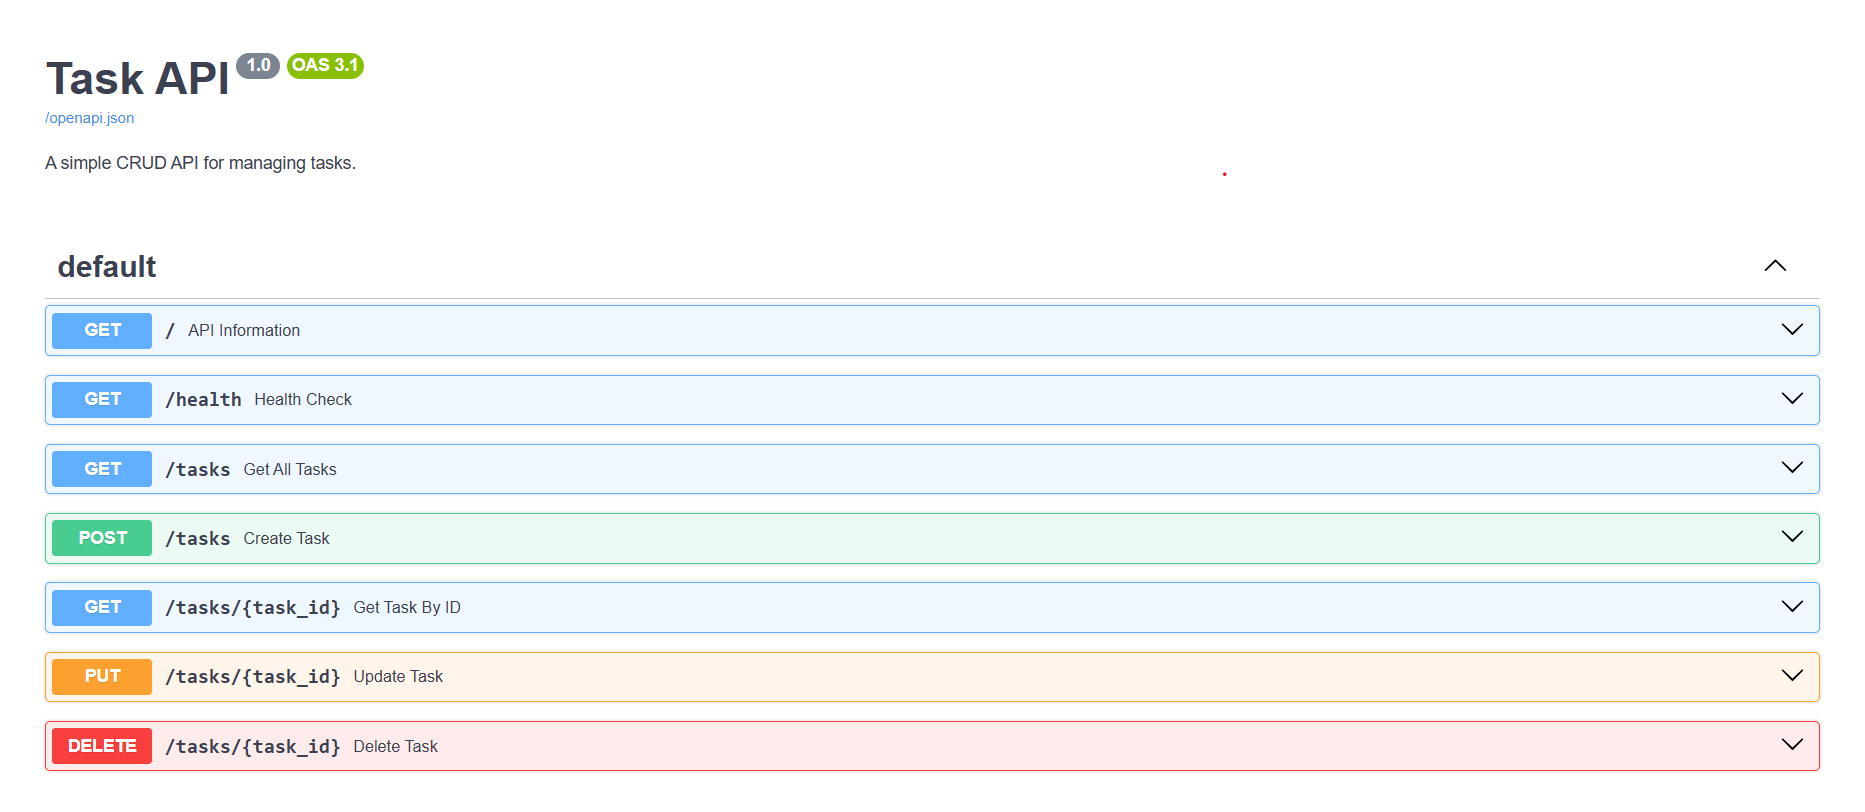
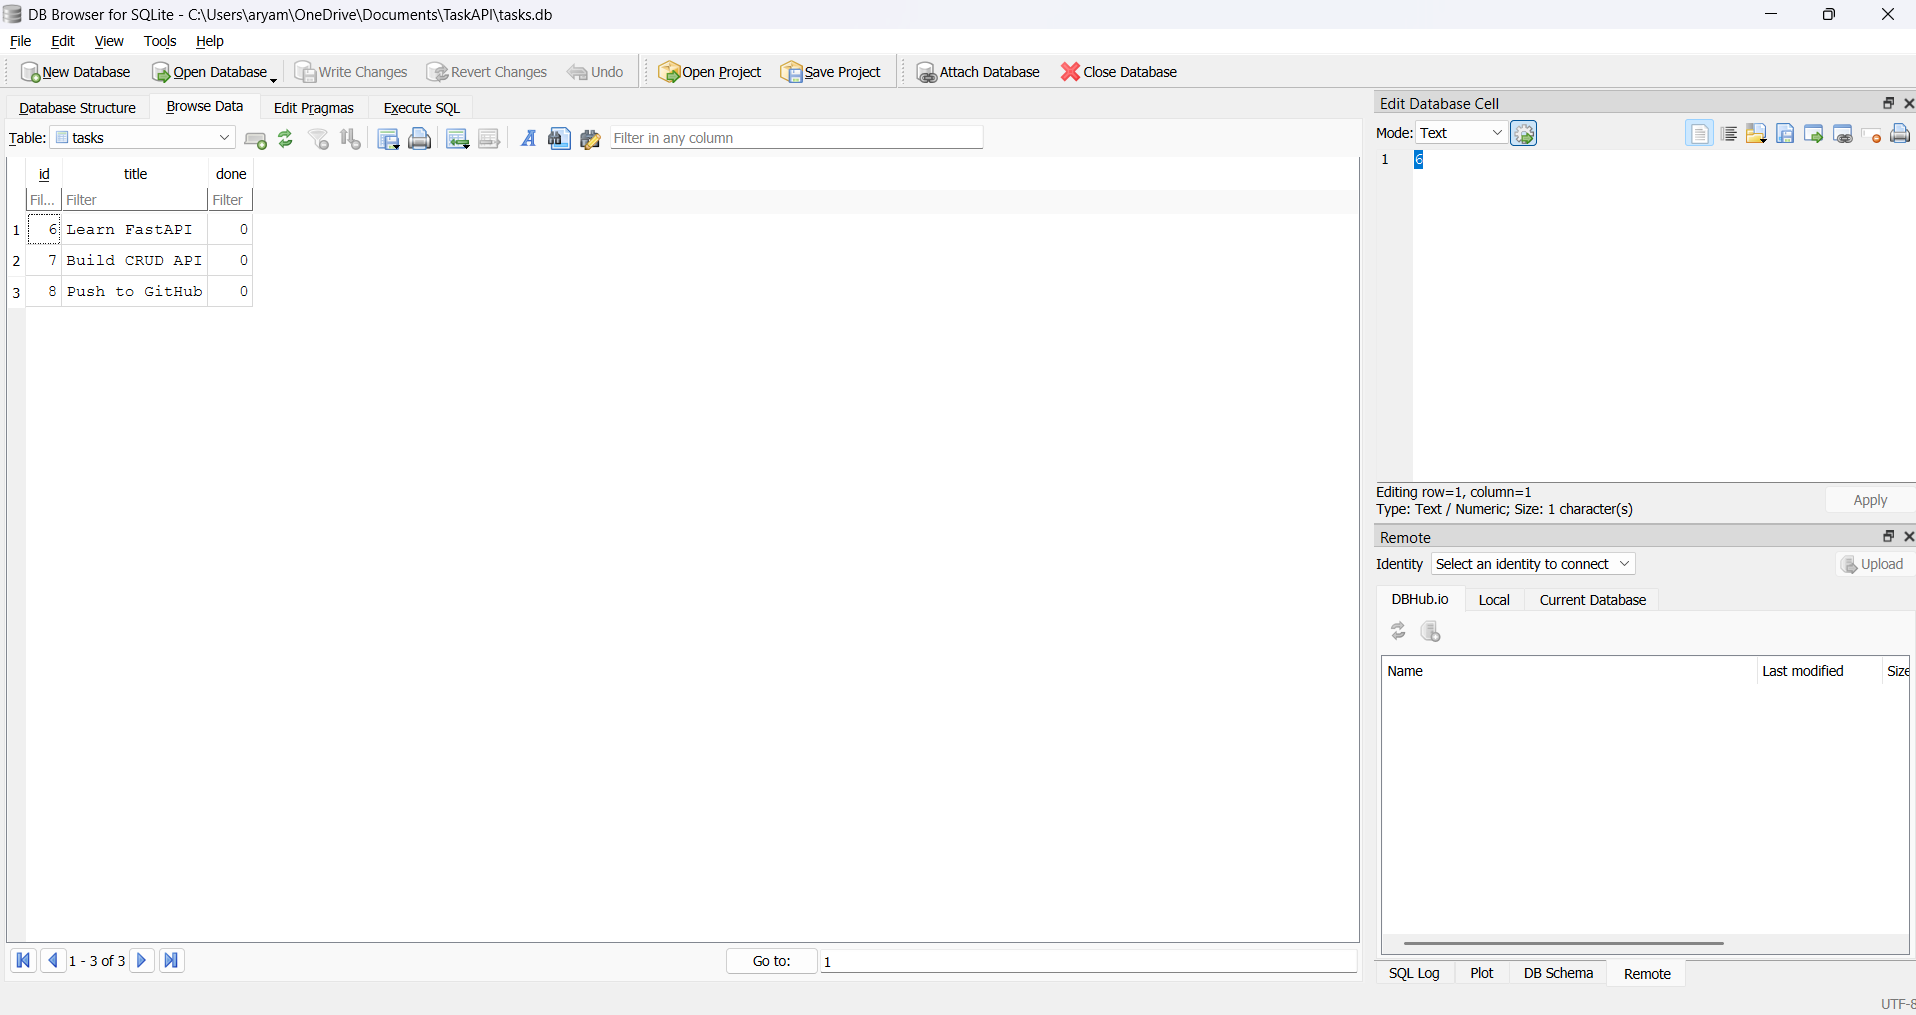
Week 3: Connect CRUD API to SQLite database

diff --git a/README.md b/README.md
@@ -1,76 +1,214 @@
-# Task API (SQLite Version)
+# Task API - SQLite CRUD API
 
-A simple CRUD API built with FastAPI and SQLite.
+A simple CRUD (Create, Read, Update, Delete) REST API built using **FastAPI** and **SQLite**. This project demonstrates how to replace an in-memory data store with a persistent SQLite database while keeping the API endpoints unchanged.
+
+---
 
 ## Features
 
-- Create tasks
-- Read all tasks
-- Read a task by ID
-- Update tasks
+- Create new tasks
+- Retrieve all tasks
+- Retrieve a task by ID
+- Update existing tasks
 - Delete tasks
 - SQLite database persistence
+- Automatic database and table creation
+- Automatic seeding of sample tasks on first run
+- Input validation with proper HTTP status codes
+- Interactive API documentation using Swagger UI
+
+---
+
+## Technologies Used
+
+- Python 3.11+
+- FastAPI
+- SQLite (sqlite3)
+- Uvicorn
+
+---
 
 ## Why SQLite?
 
-SQLite was chosen because it is lightweight, requires zero server setup, stores all data in a single file, and keeps data even after the application restarts.
+SQLite was chosen because:
+
+- It is lightweight and serverless.
+- No separate database installation is required.
+- The database is stored in a single file (`tasks.db`).
+- Data persists even after restarting the application.
+- Perfect for small backend applications and learning SQL.
+
+---
 
 ## Database
 
-The database is stored in:
+The application automatically creates:
 
 ```
 tasks.db
 ```
 
-It is created automatically when the application starts if it does not already exist.
+on the first run.
 
-The `tasks` table is also created automatically, and three sample tasks are inserted only on the first run.
+It also automatically creates the `tasks` table if it does not exist and inserts three sample tasks only when the table is empty.
 
-## Installation
+Table structure:
 
-Install dependencies:
+| Column | Type |
+|---------|------|
+| id | INTEGER PRIMARY KEY AUTOINCREMENT |
+| title | TEXT |
+| done | BOOLEAN |
 
-```bash
-pip install -r requirements.txt
-```
-
-Run the server:
-
-```bash
-uvicorn main:app --reload
-```
-
-Open:
-
-```
-http://127.0.0.1:8000/docs
-```
-
-## Example SQL Query
-
-```sql
-SELECT * FROM tasks;
-```
-
-This query lists every task stored in the SQLite database.
+---
 
 ## Project Structure
 
 ```
 TaskAPI/
 │
+├── images/
+│   ├── swagger-ui.png
+│   └── database-viewer.png
+│
 ├── main.py
 ├── requirements.txt
 ├── tasks.db
 ├── README.md
-└── images/
+└── .gitignore
 ```
+
+---
+
+## Installation
+
+Clone the repository
+
+```bash
+git clone <repository-url>
+cd TaskAPI
+```
+
+Install dependencies
+
+```bash
+pip install -r requirements.txt
+```
+
+Run the application
+
+```bash
+uvicorn main:app --reload
+```
+
+Open Swagger UI
+
+```
+http://127.0.0.1:8000/docs
+```
+
+---
 
 ## API Endpoints
 
-- GET `/tasks`
-- GET `/tasks/{id}`
-- POST `/tasks`
-- PUT `/tasks/{id}`
-- DELETE `/tasks/{id}`
+| Method | Endpoint | Description |
+|---------|----------|-------------|
+| GET | /tasks | Get all tasks |
+| GET | /tasks/{id} | Get a task by ID |
+| POST | /tasks | Create a new task |
+| PUT | /tasks/{id} | Update a task |
+| DELETE | /tasks/{id} | Delete a task |
+
+---
+
+## Example SQL Queries
+
+List every task
+
+```sql
+SELECT * FROM tasks;
+```
+
+Show completed tasks
+
+```sql
+SELECT * FROM tasks WHERE done = 1;
+```
+
+Count all tasks
+
+```sql
+SELECT COUNT(*) FROM tasks;
+```
+
+Mark all tasks as completed
+
+```sql
+UPDATE tasks SET done = 1;
+```
+
+Delete completed tasks
+
+```sql
+DELETE FROM tasks WHERE done = 1;
+```
+
+---
+
+## API Screenshot
+
+
+
+![Swagger UI](images/swagger-ui.png)
+
+---
+
+## Database Screenshot
+
+
+
+![Database Viewer](images/database-viewer.png)
+
+---
+
+## HTTP Status Codes
+
+| Status Code | Meaning |
+|-------------|---------|
+| 200 | Success |
+| 201 | Task Created |
+| 204 | Task Deleted |
+| 400 | Invalid Request |
+| 404 | Task Not Found |
+
+---
+
+## Sample Response
+
+```json
+[
+  {
+    "id": 1,
+    "title": "Learn FastAPI",
+    "done": false
+  },
+  {
+    "id": 2,
+    "title": "Build CRUD API",
+    "done": false
+  },
+  {
+    "id": 3,
+    "title": "Push to GitHub",
+    "done": false
+  }
+]
+```
+
+---
+
+## Author
+
+Aryaman Dutta
+
+Backend Development Internship - FlyRank
